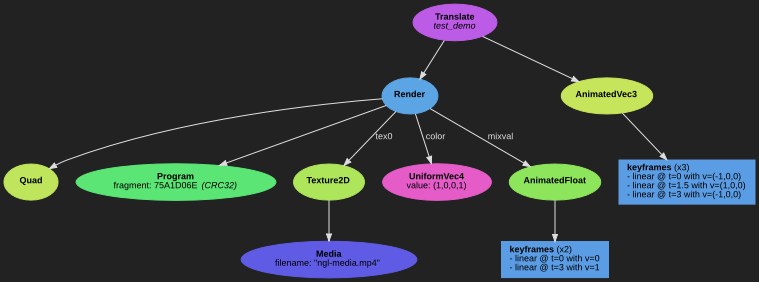
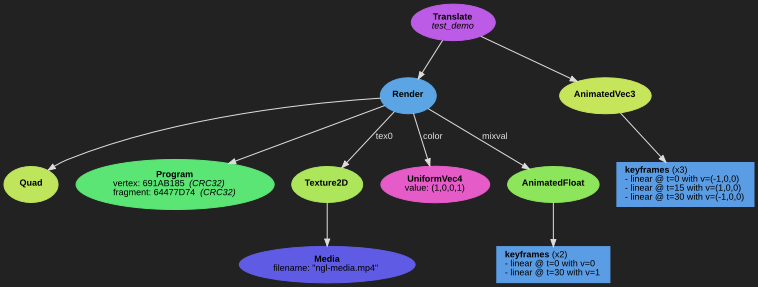
doc: remove use of default shaders

diff --git a/doc/tuto/start.md b/doc/tuto/start.md
@@ -47,12 +47,48 @@ Edit a script such as `~/mydemo.py` and add the following:
 import pynodegl as ngl
 from pynodegl_utils.misc import scene
 
+
+_VERTEX = '''
+#version 100
+
+precision highp float;
+attribute vec4 ngl_position;
+attribute vec2 ngl_uvcoord;
+uniform mat4 ngl_modelview_matrix;
+uniform mat4 ngl_projection_matrix;
+
+uniform mat4 tex0_coord_matrix;
+varying vec2 var_tex0_coord;
+
+void main()
+{
+    gl_Position = ngl_projection_matrix * ngl_modelview_matrix * ngl_position;
+    var_tex0_coord = (tex0_coord_matrix * vec4(ngl_uvcoord, 0.0, 1.0)).xy;
+}
+'''
+
+
+_FRAGMENT = '''
+#version 100
+
+precision highp float;
+uniform sampler2D tex0_sampler;
+varying vec2 var_tex0_coord;
+
+void main()
+{
+    gl_FragColor = texture2D(tex0_sampler, var_tex0_coord);
+}
+'''
+
+
 @scene()
 def test_demo(cfg):
     geometry = ngl.Quad()
     media = ngl.Media(cfg.medias[0].filename)
     texture = ngl.Texture2D(data_src=media)
-    render = ngl.Render(geometry)
+    program = ngl.Program(vertex=_VERTEX, fragment=_FRAGMENT)
+    render = ngl.Render(geometry, program)
     render.update_textures(tex0=texture)
     return render
 ```
@@ -68,7 +104,7 @@ To formulate what we observe here, we'll say the following: the `Render` is the
 node orchestrating the render of the `Texture2D` (identified by "*tex0*") in the
 `Quad` geometry, using the `Media` as data source for filling the texture.
 
-### Pimp my demo with a GPU program
+### Pimp my demo
 
 **Note**: writing GLSL shaders is out of the scope of this tutorial, so we will
 assume you are comfortable with the basis. If not, you may want to look at [the
@@ -78,61 +114,9 @@ You may want to refer to the [vertex and fragment shader
 parameters][expl-shaders] documetation to know which parameters are exposed by
 `node.gl`.
 
-We are now going to pimp a little our scene by adding a program shader. No need
-to close `ngl-viewer` as it is supporting live code editing. The scene will be
-reconstructed after every change in your sources.
-
-If no program is specified to  `Render`, it will use a default one which looks
-like this one (that's the code currently being used to render the texture into
-the geometry):
-
-```glsl
-#version 100
-
-precision highp float;
-uniform sampler2D tex0_sampler;
-varying vec2 var_uvcoord;
-varying vec2 var_tex0_coord;
-void main()
-{
-    gl_FragColor = texture2D(tex0_sampler, var_tex0_coord);
-}
-```
-
-Instead of just picking into the texture, we will mix it with some red by
-replacing the `gl_FragColor` assignment with the following:
-
-```glsl
-    vec4 color = vec4(1.0, 0.0, 0.0, 1.0);
-    vec4 video = texture2D(tex0_sampler, var_tex0_coord);
-    gl_FragColor = mix(video, color, 0.5);
-```
-
-Our new GLSL fragment shader can be specified as `fragment` parameter to the
-`Program` node. Making sure the `Render` does use our custom program, our demo
-becomes:
-
-```python
-import os.path as op
-import pynodegl as ngl
-from pynodegl_utils.misc import scene
-
-
-@scene()
-def test_demo(cfg):
-    frag = open(op.join(op.dirname(__file__), 'mydemo.frag')).read()
-    geometry = ngl.Quad()
-    media = ngl.Media(cfg.medias[0].filename)
-    texture = ngl.Texture2D(data_src=media)
-    prog = ngl.Program(fragment=frag)
-    ucolor = ngl.UniformVec4(value=(1,0,0,1))
-    render = ngl.Render(geometry, prog)
-    render.update_textures(tex0=texture)
-    render.update_uniforms(color=ucolor)
-    return render
-```
-
-With `~/mydemo.frag`:
+We are now going to pimp a little our fragment shader. Instead of just picking
+into the texture, we will mix it with some red by replacing the `gl_FragColor`
+assignment with the following:
 
 ```glsl
 #version 100
@@ -232,7 +216,7 @@ And then use this animated float directly on the render:
 ```
 
 Just like `color`, we will transmit it to the shader through uniforms.
-`~/mydemo.frag` ends up being:
+The fragment shader ends up being:
 
 ```glsl
 #version 100
@@ -294,16 +278,52 @@ import pynodegl as ngl
 from pynodegl_utils.misc import scene
 
 
+_VERTEX = '''
+#version 100
+
+precision highp float;
+attribute vec4 ngl_position;
+attribute vec2 ngl_uvcoord;
+uniform mat4 ngl_modelview_matrix;
+uniform mat4 ngl_projection_matrix;
+
+uniform mat4 tex0_coord_matrix;
+varying vec2 var_tex0_coord;
+
+void main()
+{
+    gl_Position = ngl_projection_matrix * ngl_modelview_matrix * ngl_position;
+    var_tex0_coord = (tex0_coord_matrix * vec4(ngl_uvcoord, 0.0, 1.0)).xy;
+}
+'''
+
+
+_FRAGMENT = '''
+#version 100
+
+precision highp float;
+uniform sampler2D tex0_sampler;
+uniform vec4 color;
+uniform float mixval;
+varying vec2 var_uvcoord;
+varying vec2 var_tex0_coord;
+void main()
+{
+    vec4 video = texture2D(tex0_sampler, var_tex0_coord);
+    gl_FragColor = mix(video, color, mixval);
+}
+'''
+
+
 @scene(color=scene.Color())
 def test_demo(cfg, color=(1,0,0,1)):
     cfg.duration = 3.
 
     # Render branch for my video
-    frag = open(op.join(op.dirname(__file__), 'mydemo.frag')).read()
     geometry = ngl.Quad()
     media = ngl.Media(cfg.medias[0].filename)
     texture = ngl.Texture2D(data_src=media)
-    prog = ngl.Program(fragment=frag)
+    prog = ngl.Program(vertex=_VERTEX, fragment=_FRAGMENT)
     render = ngl.Render(geometry, prog)
     render.update_textures(tex0=texture)
 
@@ -360,7 +380,7 @@ def test_timeranges(cfg):
     circle = ngl.Circle(radius=sz/2., npoints=64)
 
     # Renders for each shape, sharing a common program for coloring
-    prog = ngl.Program(fragment=cfg.get_frag('color'))
+    prog = ngl.Program(vertex=cfg.get_vert('color'), fragment=cfg.get_frag('color'))
     renders = [
             ngl.Render(triangle, prog),
             ngl.Render(square, prog),

diff --git a/doc/expl/shaders.md b/doc/expl/shaders.md
@@ -141,61 +141,3 @@ Or gives the following shader parameters as UBO with
         vec4 data[256];
     };
 ```
-
-## Default vertex and fragment shaders
-
-The `Program` node provides default `vertex` and `fragment` shaders if none are
-provided by the user.
-
-### Vertex shader
-
-```glsl
-#version 100
-
-precision highp float;
-attribute vec4 ngl_position;
-attribute vec2 ngl_uvcoord;
-attribute vec3 ngl_normal;
-uniform mat4 ngl_modelview_matrix;
-uniform mat4 ngl_projection_matrix;
-uniform mat3 ngl_normal_matrix;
-
-uniform mat4 tex0_coord_matrix;
-
-varying vec2 var_uvcoord;
-varying vec3 var_normal;
-varying vec2 var_tex0_coord;
-
-void main()
-{
-    /* Compute current vertex position */
-    gl_Position = ngl_projection_matrix * ngl_modelview_matrix * ngl_position;
-
-    /* Forward geometry uv coordinates to the next stage */
-    var_uvcoord = ngl_uvcoord;
-
-    /* Compute current normal coordinates */
-    var_normal = ngl_normal_matrix * ngl_normal;
-
-    /* Compute tex0 texture coordinates by applying the corresponding uv
-        transformation matrix */
-    var_tex0_coord = (tex0_coord_matrix * vec4(ngl_uvcoord, 0, 1)).xy;
-}
-```
-
-### Fragment shader
-
-```glsl
-#version 100
-
-precision highp float;
-uniform sampler2D tex0_sampler;
-varying vec2 var_uvcoord;
-varying vec2 var_tex0_coord;
-
-void main()
-{
-    /* Return corresponding color from the tex0 texture */
-    gl_FragColor = texture2D(tex0_sampler, var_tex0_coord);
-}
-```
